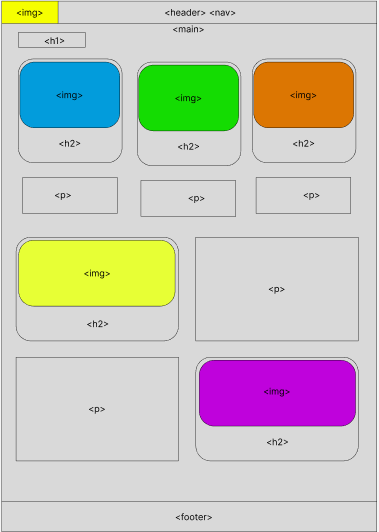
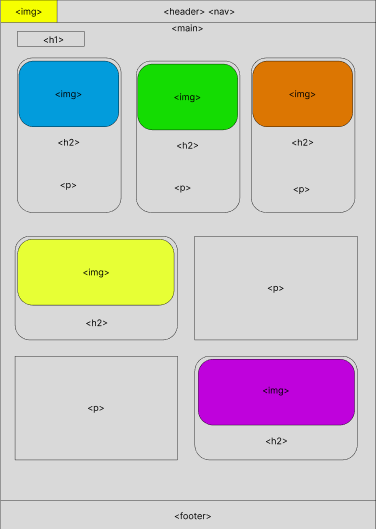
aaaa

diff --git a/templates/trabajos.html b/templates/trabajos.html
@@ -4,7 +4,7 @@
     <meta charset="UTF-8">
     <meta name="viewport" content="width=device-width, initial-scale=1.0">
     <title>Document</title>
-    <link rel="stylesheet" href="style.css">
+    <link rel="stylesheet" href="..\style\style.css">
     <link href="https://cdn.jsdelivr.net/npm/bootstrap@5.3.8/dist/css/bootstrap.min.css" rel="stylesheet" integrity="sha384-sRIl4kxILFvY47J16cr9ZwB07vP4J8+LH7qKQnuqkuIAvNWLzeN8tE5YBujZqJLB" crossorigin="anonymous">
 </head>
 
@@ -13,7 +13,7 @@
   <nav class="navbar navbar-expand-lg gris">
     <div class="container-fluid height_1">
       <a class="navbar-brand" href="index.html">
-        <img src="imagenes/logo.png" alt="logo" class="medida_logo"> 
+        <img src="../imagenes/logo.png" alt="logo" class="medida_logo"> 
       </a>
       <button class="navbar-toggler" type="button" data-bs-toggle="collapse" data-bs-target="#navbarNav" aria-controls="navbarNav" aria-expanded="false" aria-label="Toggle navigation">
         <span class="navbar-toggler-icon"></span>
@@ -21,19 +21,19 @@
       <div class="collapse navbar-collapse" id="navbarNav">
         <ul class="navbar-nav ms-auto">
           <li class="nav-item">
-            <a class="nav-link" href="index.html">Inicio</a>
+            <a class="nav-link" href="..\templates\index.html">Inicio</a>
           </li>
           <li class="nav-item">
-            <a class="nav-link" href="nosotros.html">Nosotros</a>
+            <a class="nav-link" href="..\templates\nosotros.html">Nosotros</a>
           </li>
           <li class="nav-item">
-            <a class="nav-link" href="servicios.html">Servicios</a>
+            <a class="nav-link" href="..\templates\servicios.html">Servicios</a>
           </li>
           <li class="nav-item">
-            <a class="nav-link active" aria-current="page" href="trabajos.html">Trabajos</a>
+            <a class="nav-link active" aria-current="page" href="..\templates\trabajos.html">Trabajos</a>
           </li>
           <li class="nav-item">
-            <a class="nav-link" href="contacto.html">Contacto</a>
+            <a class="nav-link" href="..\templates\contacto.html">Contacto</a>
           </li>
         </ul>
       </div>
@@ -49,42 +49,42 @@
         <div class="row g-4 mb-5 mt-5 ">
             <div class="col-sm-12 col-md-6 col-lg-4">
               <div class="p-3 shadow-sm color-tr rounded altura-max">
-                <img src="imagenes/trabajo1.jpg" alt="Lavado Premium + Detailing Interior" class="img-fluid rounded trabajo d-block mx-auto">
+                <img src="../imagenes/trabajo1.jpg" alt="Lavado Premium + Detailing Interior" class="img-fluid rounded d-block mx-auto">
                 <h2 class="cursiva text-center mt-3">Lavado Premium + Detailing Interior</h2>
                 <p class="text-center">Auto: Fiat Argo 2017 (Dueño: Sebastian Miraglia) <br> Sebastian quería que su Jeep quedara impecable por dentro. Hicimos un lavado premium, descontaminación de llantas y pasos de rueda, y un detailing interior profundo: limpieza a vapor, extracción de manchas en tapizados y sanitización completa. Quedó con olor a nuevo y plásticos rejuvenecidos con acabado mate profesional. (como es el profe se lo hicimos gratis)</p>
               </div>
             </div>
             <div class="col-sm-12 col-md-6 col-lg-4">
               <div class="p-3 shadow-sm color-tr rounded altura-max">
-                <img src="imagenes/trabajo2.jpg" alt="Pulido Completo + Corrección de Pintura" class="img-fluid rounded trabajo d-block mx-auto">
+                <img src="../imagenes/trabajo2.jpg" alt="Pulido Completo + Corrección de Pintura" class="img-fluid rounded d-block mx-auto">
                 <h2 class="cursiva text-center mt-3">Pulido Completo + Corrección de Pintura</h2>
                 <p class="text-center">Auto: Volkswagen Vento 2018 (Dueño: Lionel Messi) <br> Lionel vino porque su Vento tenía micro-rayas y un aspecto opaco por lavados mal hechos. Le hicimos una corrección de pintura en dos pasos: corte y terminación, usando pads de lana y espuma fina. Rematamos con un sellado cerámico de 12 meses. El auto salió con un brillo espejo y una profundidad de color que parecía recién sacado de concesionaria.</p>
               </div>
             </div>
             <div class="col-sm-12 col-md-6 col-lg-4">
               <div class="p-3 shadow-sm color-tr rounded altura-max">
-                <img src="imagenes/trabajo3.jpg" alt="Restauración de Ópticas" class="img-fluid rounded trabajo d-block mx-auto">
+                <img src="../imagenes/trabajo3.jpg" alt="Restauración de Ópticas" class="img-fluid rounded d-block mx-auto">
                 <h2 class="cursiva text-center mt-3">Restauración de Ópticas</h2>
                 <p class="text-center">Auto: Volksvagen Vento (Dueño: Gustavo Costas) <br> Las ópticas estaban amarillentas y opacas. Realizamos una lija progresiva desde 800 hasta 3000, luego pulido con compuesto y sellador UV. El cambio fue impresionante: recuperaron transparencia y la iluminación mejoró muchísimo.<br> </p>
               </div>
             </div>
             <div class="col-sm-12 col-md-6 col-lg-4">
               <div class="p-3 shadow-sm color-tr rounded altura-max">
-                <img src="imagenes/trabajo4.jpg" alt="Tratamiento Cerámico 5 Años" class="img-fluid rounded trabajo d-block mx-auto">
+                <img src="../imagenes/trabajo4.jpg" alt="Tratamiento Cerámico 5 Años" class="img-fluid rounded d-block mx-auto">
                 <h2 class="cursiva text-center mt-3">Tratamiento Cerámico 5 Años</h2>
                 <p class="text-center">Auto: Toyota Corolla (Dueña: Ariana Grande) <br>Ariana quería máxima protección para su Audi. Aplicamos un coating cerámico 9H, previamente descontaminando la pintura y haciendo una corrección leve. Sellamos también vidrios, llantas y plásticos. El auto quedó con un brillo húmedo permanente y súper protegido contra rayas y suciedad.</p>
               </div>
             </div>
             <div class="col-sm-12 col-md-6 col-lg-4">
               <div class="p-3 shadow-sm color-tr rounded altura-max">
-                <img src="imagenes/trabajo5.jpg" alt="Limpieza y Acondicionamiento de Motor" class="img-fluid rounded trabajo d-block mx-auto">
+                <img src="../imagenes/trabajo5.jpg" alt="Limpieza y Acondicionamiento de Motor" class="img-fluid rounded d-block mx-auto">
                 <h2 class="cursiva text-center mt-3">Limpieza y Acondicionamiento de Motor</h2>
                 <p class="text-center">Auto: Fiat Siena (Dueña: Patricia Bullrich) <br>El motor estaba bastante sucio por tierra acumulada. Hicimos una limpieza suave, sin uso de agua directa en zonas sensibles, usando APC, brochas y microfibras. Acondicionamos plásticos con un protector satinado resistente al calor. El resultado fue prolijo y profesional, sin brillos exagerados.</p>
               </div>
             </div>
             <div class="col-sm-12 col-md-6 col-lg-4">
               <div class="p-3 shadow-sm color-tr rounded altura-max">
-                <img src="imagenes/trabajo6.jpg" alt="Recuperación de Tapizados de Cuero" class="img-fluid rounded trabajo d-block mx-auto">
+                <img src="../imagenes/trabajo6.jpg" alt="Recuperación de Tapizados de Cuero" class="img-fluid rounded d-block mx-auto">
                 <h2 class="cursiva text-center mt-3">Recuperación de Tapizados de Cuero</h2>
                 <p class="text-center">Auto: Audi R8 (Dueño: Mike Tyson) <br>Los asientos tenían desgaste en las zonas laterales. Los limpiamos con productos específicos para cuero, hicimos una reparación de grietas leves y aplicamos tintura del color original. El interior volvió a lucir uniforme y con tacto suave, como cuando salió de fábrica.</p>
               </div>

diff --git a/templates/servicios.html b/templates/servicios.html
@@ -4,7 +4,7 @@
     <meta charset="UTF-8">
     <meta name="viewport" content="width=device-width, initial-scale=1.0">
     <title>Document</title>
-    <link rel="stylesheet" href="style.css">
+    <link rel="stylesheet" href="../style/style.css">
     <link href="https://cdn.jsdelivr.net/npm/bootstrap@5.3.8/dist/css/bootstrap.min.css" rel="stylesheet" integrity="sha384-sRIl4kxILFvY47J16cr9ZwB07vP4J8+LH7qKQnuqkuIAvNWLzeN8tE5YBujZqJLB" crossorigin="anonymous">
 </head>
 
@@ -13,7 +13,7 @@
   <nav class="navbar navbar-expand-lg gris">
     <div class="container-fluid height_1">
       <a class="navbar-brand" href="index.html">
-        <img src="imagenes/logo.png" alt="logo" class="medida_logo"> 
+        <img src="../imagenes/logo.png" alt="logo" class="medida_logo"> 
       </a>
       <button class="navbar-toggler" type="button" data-bs-toggle="collapse" data-bs-target="#navbarNav" aria-controls="navbarNav" aria-expanded="false" aria-label="Toggle navigation">
         <span class="navbar-toggler-icon"></span>
@@ -21,19 +21,19 @@
       <div class="collapse navbar-collapse" id="navbarNav">
         <ul class="navbar-nav ms-auto">
           <li class="nav-item">
-            <a class="nav-link" href="index.html">Inicio</a>
+            <a class="nav-link" href="..\templates\index.html">Inicio</a>
           </li>
           <li class="nav-item">
-            <a class="nav-link" href="nosotros.html">Nosotros</a>
+            <a class="nav-link" href="..\templates\nosotros.html">Nosotros</a>
           </li>
           <li class="nav-item">
-            <a class="nav-link active" aria-current="page" href="servicios.html">Servicios</a>
+            <a class="nav-link active" aria-current="page" href="..\templates\servicios.html">Servicios</a>
           </li>
           <li class="nav-item">
-            <a class="nav-link" href="trabajos.html">Trabajos</a>
+            <a class="nav-link" href="..\templates\trabajos.html">Trabajos</a>
           </li>
           <li class="nav-item">
-            <a class="nav-link" href="contacto.html">Contacto</a>
+            <a class="nav-link" href="..\templates\contacto.html">Contacto</a>
           </li>
         </ul>
       </div>
@@ -48,37 +48,31 @@
   <div class="container-fluid">
     <div class="row g-4 mb-4 mt-4 ">
       <div class="col-sm-12 col-md-6 col-lg-4">
-        <div class="p-3 shadow-sm color-tr rounded">
-          <img src="imagenes/servicio1.jpg" alt="Lavados Detallados" class="img-fluid rounded trabajo d-block mx-auto">
-          <h2 class="cursiva text-center mt-3">Lavados Detallados</h2>
-        </div>
-        <div class="p-3 shadow-sm color-tr rounded mt-3">
-          <p class="text-center">Realizamos un lavado completo y minucioso del vehículo, cuidando cada superficie para devolverle su aspecto original. Utilizamos productos neutros que no dañan la pintura y aplicamos técnicas específicas para limpiar llantas, plásticos, zócalos, burletes y emblemas. No es un lavado común: es un proceso pensado para dejar el auto realmente impecable, sin marcas ni residuos.</p>
+        <div class="p-3 shadow-sm color-tr rounded altura-max">
+          <img src="../imagenes/servicio1.jpg" alt="Lavados Detallados" class="img-fluid rounded d-block mx-auto">
+          <h2 class="cursiva text-center mt-5">Lavados Detallados</h2>
+          <p class="text-center mt-5">Realizamos un lavado completo y minucioso del vehículo, cuidando cada superficie para devolverle su aspecto original. Utilizamos productos neutros que no dañan la pintura y aplicamos técnicas específicas para limpiar llantas, plásticos, zócalos, burletes y emblemas. No es un lavado común: es un proceso pensado para dejar el auto realmente impecable, sin marcas ni residuos.</p>
         </div>
       </div>
       <div class="col-sm-12 col-md-6 col-lg-4">
-        <div class="p-3 shadow-sm color-tr rounded">
-          <img src="imagenes/servicio2.jpg" alt="Tratamientos De Ceramicos y Acrilicos" class="img-fluid rounded trabajo d-block mx-auto">
+        <div class="p-3 shadow-sm color-tr rounded altura-max">
+          <img src="../imagenes/servicio2.jpg" alt="Tratamientos De Ceramicos y Acrilicos" class="img-fluid rounded d-block mx-auto">
           <h2 class="cursiva text-center mt-3">Tratamientos De Ceramicos y Acrilicos</h2>
-        </div>
-        <div class="p-3 shadow-sm color-tr rounded mt-3">
           <p class="text-center">Aplicamos recubrimientos cerámicos y selladores acrílicos de alta duración para proteger la pintura del vehículo. Estos tratamientos generan una capa resistente que aumenta el brillo, evita la suciedad adherida y protege contra rayones leves, UV y corrosión. El resultado es un acabado más profundo y un mantenimiento mucho más fácil por meses o años, según la opción elegida.</p>
         </div>
       </div>
       <div class="col-sm-12 col-md-6 col-lg-4 d-none d-lg-block">
-        <div class="p-3 shadow-sm color-tr rounded">
-          <img src="imagenes/servicio3.jpg" alt="Pulido De Optica" class="img-fluid rounded trabajo d-block mx-auto">
-          <h2 class="cursiva text-center mt-3">Pulido De Optica</h2>
-        </div>
-        <div class="p-3 shadow-sm color-tr rounded mt-3">
-          <p class="text-center">Devolvemos la claridad y transparencia a las ópticas opacadas por el sol, el uso o microabrasiones. El proceso incluye lijado controlado, pulido profesional y sellado UV para prolongar el resultado. Mejora la estética del vehículo y también la iluminación, aumentando la seguridad al manejar.</p>
+        <div class="p-3 shadow-sm color-tr rounded altura-max">
+          <img src="../imagenes/servicio3.jpg" alt="Pulido De Optica" class="img-fluid rounded d-block mx-auto">
+          <h2 class="cursiva text-center mt-5">Pulido De Optica</h2>
+          <p class="text-center mt-5">Devolvemos la claridad y transparencia a las ópticas opacadas por el sol, el uso o microabrasiones. El proceso incluye lijado controlado, pulido profesional y sellado UV para prolongar el resultado. Mejora la estética del vehículo y también la iluminación, aumentando la seguridad al manejar.</p>
         </div>
       </div>
     </div>
     <div class="row g-4 mb-5 mt-4 ">
       <div class="col-sm-12 col-lg-6">
         <div class="p-3 shadow-sm color-tr rounded">
-          <img src="imagenes/servicio4.jpg" alt="Instalaciones Esteticas" class="img-fluid rounded trabajo d-block mx-auto">
+          <img src="../imagenes/servicio4.jpg" alt="Instalaciones Esteticas" class="img-fluid rounded d-block mx-auto">
           <h2 class="cursiva text-center mt-3">Instalaciones Esteticas</h2>
         </div>
       </div>
@@ -96,7 +90,7 @@
       </div>
       <div class="col-sm-12 col-lg-6 order-1 order-lg-2">
         <div class="p-3 shadow-sm color-tr rounded">
-          <img src="imagenes/servicio5.jpg" alt="Polarizados" class="img-fluid rounded trabajo d-block mx-auto">
+          <img src="../imagenes/servicio5.jpg" alt="Polarizados" class="img-fluid rounded d-block mx-auto">
           <h2 class="cursiva text-center mt-3">Polarizados</h2>
         </div>
       </div>

diff --git a/templates/nosotros.html b/templates/nosotros.html
@@ -4,7 +4,7 @@
     <meta charset="UTF-8">
     <meta name="viewport" content="width=device-width, initial-scale=1.0">
     <title>Document</title>
-    <link rel="stylesheet" href="style.css">
+    <link rel="stylesheet" href="..\style\style.css">
     <link href="https://cdn.jsdelivr.net/npm/bootstrap@5.3.8/dist/css/bootstrap.min.css" rel="stylesheet" integrity="sha384-sRIl4kxILFvY47J16cr9ZwB07vP4J8+LH7qKQnuqkuIAvNWLzeN8tE5YBujZqJLB" crossorigin="anonymous">
 </head>
 
@@ -13,7 +13,7 @@
   <nav class="navbar navbar-expand-lg gris">
     <div class="container-fluid height_1">
       <a class="navbar-brand" href="index.html">
-        <img src="imagenes/logo.png" alt="logo" class="medida_logo"> 
+        <img src="../imagenes/logo.png" alt="logo" class="medida_logo"> 
       </a>
       <button class="navbar-toggler" type="button" data-bs-toggle="collapse" data-bs-target="#navbarNav" aria-controls="navbarNav" aria-expanded="false" aria-label="Toggle navigation">
         <span class="navbar-toggler-icon"></span>
@@ -21,19 +21,19 @@
       <div class="collapse navbar-collapse" id="navbarNav">
         <ul class="navbar-nav ms-auto">
           <li class="nav-item">
-            <a class="nav-link" href="index.html">Inicio</a>
+            <a class="nav-link" href="..\templates\index.html">Inicio</a>
           </li>
           <li class="nav-item">
-            <a class="nav-link active" aria-current="page" href="nosotros.html">Nosotros</a>
+            <a class="nav-link active" aria-current="page" href="..\templates\nosotros.html">Nosotros</a>
           </li>
           <li class="nav-item">
-            <a class="nav-link" href="servicios.html">Servicios</a>
+            <a class="nav-link" href="..\templates\servicios.html">Servicios</a>
           </li>
           <li class="nav-item">
-            <a class="nav-link" href="trabajos.html">Trabajos</a>
+            <a class="nav-link" href="..\templates\trabajos.html">Trabajos</a>
           </li>
           <li class="nav-item">
-            <a class="nav-link" href="contacto.html">Contacto</a>
+            <a class="nav-link" href="..\templates\contacto.html">Contacto</a>
           </li>
         </ul>
       </div>
@@ -44,7 +44,7 @@
 <section class="fondo">
   <div class="container-fluid">
     <div class="row justify-content-center">
-      <img src="imagenes\fondo.jpg" alt="nosotros" class="shadow-sm color-tr rounded p-3 mt-4" style="width: 600px; height: 350px;" >
+      <img src="../imagenes\fondo.jpg" alt="nosotros" class="shadow-sm color-tr rounded p-3 mt-4" style="width: 600px; height: 350px;" >
     </div>
     <div class="row justify-content-center">
       <h1 class="text-center my-4 cursiva">Sobre Nosotros</h1>

diff --git a/templates/index.html b/templates/index.html
@@ -4,7 +4,7 @@
     <meta charset="UTF-8">
     <meta name="viewport" content="width=device-width, initial-scale=1.0">
     <title>Venturi Garage</title>
-    <link rel="stylesheet" href="style.css">
+    <link rel="stylesheet" href="..\style\style.css">
     <link href="https://cdn.jsdelivr.net/npm/bootstrap@5.3.8/dist/css/bootstrap.min.css" rel="stylesheet" integrity="sha384-sRIl4kxILFvY47J16cr9ZwB07vP4J8+LH7qKQnuqkuIAvNWLzeN8tE5YBujZqJLB" crossorigin="anonymous">
 </head>
 
@@ -14,7 +14,7 @@
   <nav class="navbar navbar-expand-lg gris">
     <div class="container-fluid height_1">
       <a class="navbar-brand" href="index.html">
-        <img src="imagenes/logo.png" alt="logo" class="medida_logo"> 
+        <img src="../imagenes/logo.png" alt="logo" class="medida_logo"> 
       </a>
       <button class="navbar-toggler" type="button" data-bs-toggle="collapse" data-bs-target="#navbarNav" aria-controls="navbarNav" aria-expanded="false" aria-label="Toggle navigation">
         <span class="navbar-toggler-icon"></span>
@@ -22,25 +22,26 @@
       <div class="collapse navbar-collapse" id="navbarNav">
         <ul class="navbar-nav ms-auto">
           <li class="nav-item">
-            <a class="nav-link active" aria-current="page" href="index.html">Inicio</a>
+            <a class="nav-link active" aria-current="page" href="..\templates\index.html">Inicio</a>
           </li>
           <li class="nav-item">
-            <a class="nav-link" href="nosotros.html">Nosotros</a>
+            <a class="nav-link" href="..\templates\nosotros.html">Nosotros</a>
           </li>
           <li class="nav-item">
-            <a class="nav-link" href="servicios.html">Servicios</a>
+            <a class="nav-link" href="..\templates\servicios.html">Servicios</a>
           </li>
           <li class="nav-item">
-            <a class="nav-link" href="trabajos.html">Trabajos</a>
+            <a class="nav-link" href="..\templates\trabajos.html">Trabajos</a>
           </li>
           <li class="nav-item">
-            <a class="nav-link" href="contacto.html">Contacto</a>
+            <a class="nav-link" href="..\templates\contacto.html">Contacto</a>
           </li>
         </ul>
       </div>
     </div>
   </nav>
 </header>
+
 <section class="section-content">
   <div class="container">
     <div class="row">
@@ -51,7 +52,7 @@
       </div>
 
       <div class="col-12 col-lg-6 contenedor">
-        <img src="imagenes/logo2.jpg" alt="logo" class="shadow-sm color-tr rounded p-3 medida_logo2 my-5"> 
+        <img src="../imagenes/logo2.jpg" alt="logo" class="shadow-sm color-tr rounded p-3 medida_logo2 my-5"> 
       </div>
     </div>
   </div>

diff --git a/templates/contacto.html b/templates/contacto.html
@@ -4,7 +4,7 @@
     <meta charset="UTF-8">
     <meta name="viewport" content="width=device-width, initial-scale=1.0">
     <title>Document</title>
-    <link rel="stylesheet" href="style.css">
+    <link rel="stylesheet" href="..\style\style.css">
     <link href="https://cdn.jsdelivr.net/npm/bootstrap@5.3.8/dist/css/bootstrap.min.css" rel="stylesheet" integrity="sha384-sRIl4kxILFvY47J16cr9ZwB07vP4J8+LH7qKQnuqkuIAvNWLzeN8tE5YBujZqJLB" crossorigin="anonymous">
     <link rel="stylesheet" href="https://cdn.jsdelivr.net/npm/bootstrap-icons@1.11.3/font/bootstrap-icons.css">
 </head>
@@ -15,7 +15,7 @@
   <nav class="navbar navbar-expand-lg gris">
     <div class="container-fluid height_1">
       <a class="navbar-brand" href="index.html">
-        <img src="imagenes/logo.png" alt="logo" class="medida_logo"> 
+        <img src="../imagenes/logo.png" alt="logo" class="medida_logo"> 
       </a>
       <button class="navbar-toggler" type="button" data-bs-toggle="collapse" data-bs-target="#navbarNav" aria-controls="navbarNav" aria-expanded="false" aria-label="Toggle navigation">
         <span class="navbar-toggler-icon"></span>
@@ -23,19 +23,19 @@
       <div class="collapse navbar-collapse" id="navbarNav">
         <ul class="navbar-nav ms-auto">
           <li class="nav-item">
-            <a class="nav-link" href="index.html">Inicio</a>
+            <a class="nav-link" href="..\templates\index.html">Inicio</a>
           </li>
           <li class="nav-item">
-            <a class="nav-link" href="nosotros.html">Nosotros</a>
+            <a class="nav-link" href="..\templates\nosotros.html">Nosotros</a>
           </li>
           <li class="nav-item">
-            <a class="nav-link" href="servicios.html">Servicios</a>
+            <a class="nav-link" href="..\templates\servicios.html">Servicios</a>
           </li>
           <li class="nav-item">
-            <a class="nav-link" href="trabajos.html">Trabajos</a>
+            <a class="nav-link" href="..\templates\trabajos.html">Trabajos</a>
           </li>
           <li class="nav-item">
-            <a class="nav-link active" aria-current="page" href="contacto.html">Contacto</a>
+            <a class="nav-link active" aria-current="page" href="..\templates\contacto.html">Contacto</a>
           </li>
         </ul>
       </div>
@@ -43,7 +43,7 @@
   </nav>
 </header>
 
-<div style="background-color: white;">
+<div>
     <main>
         <div class="container my-5">
             <div class="row justify-content-center g-4">
